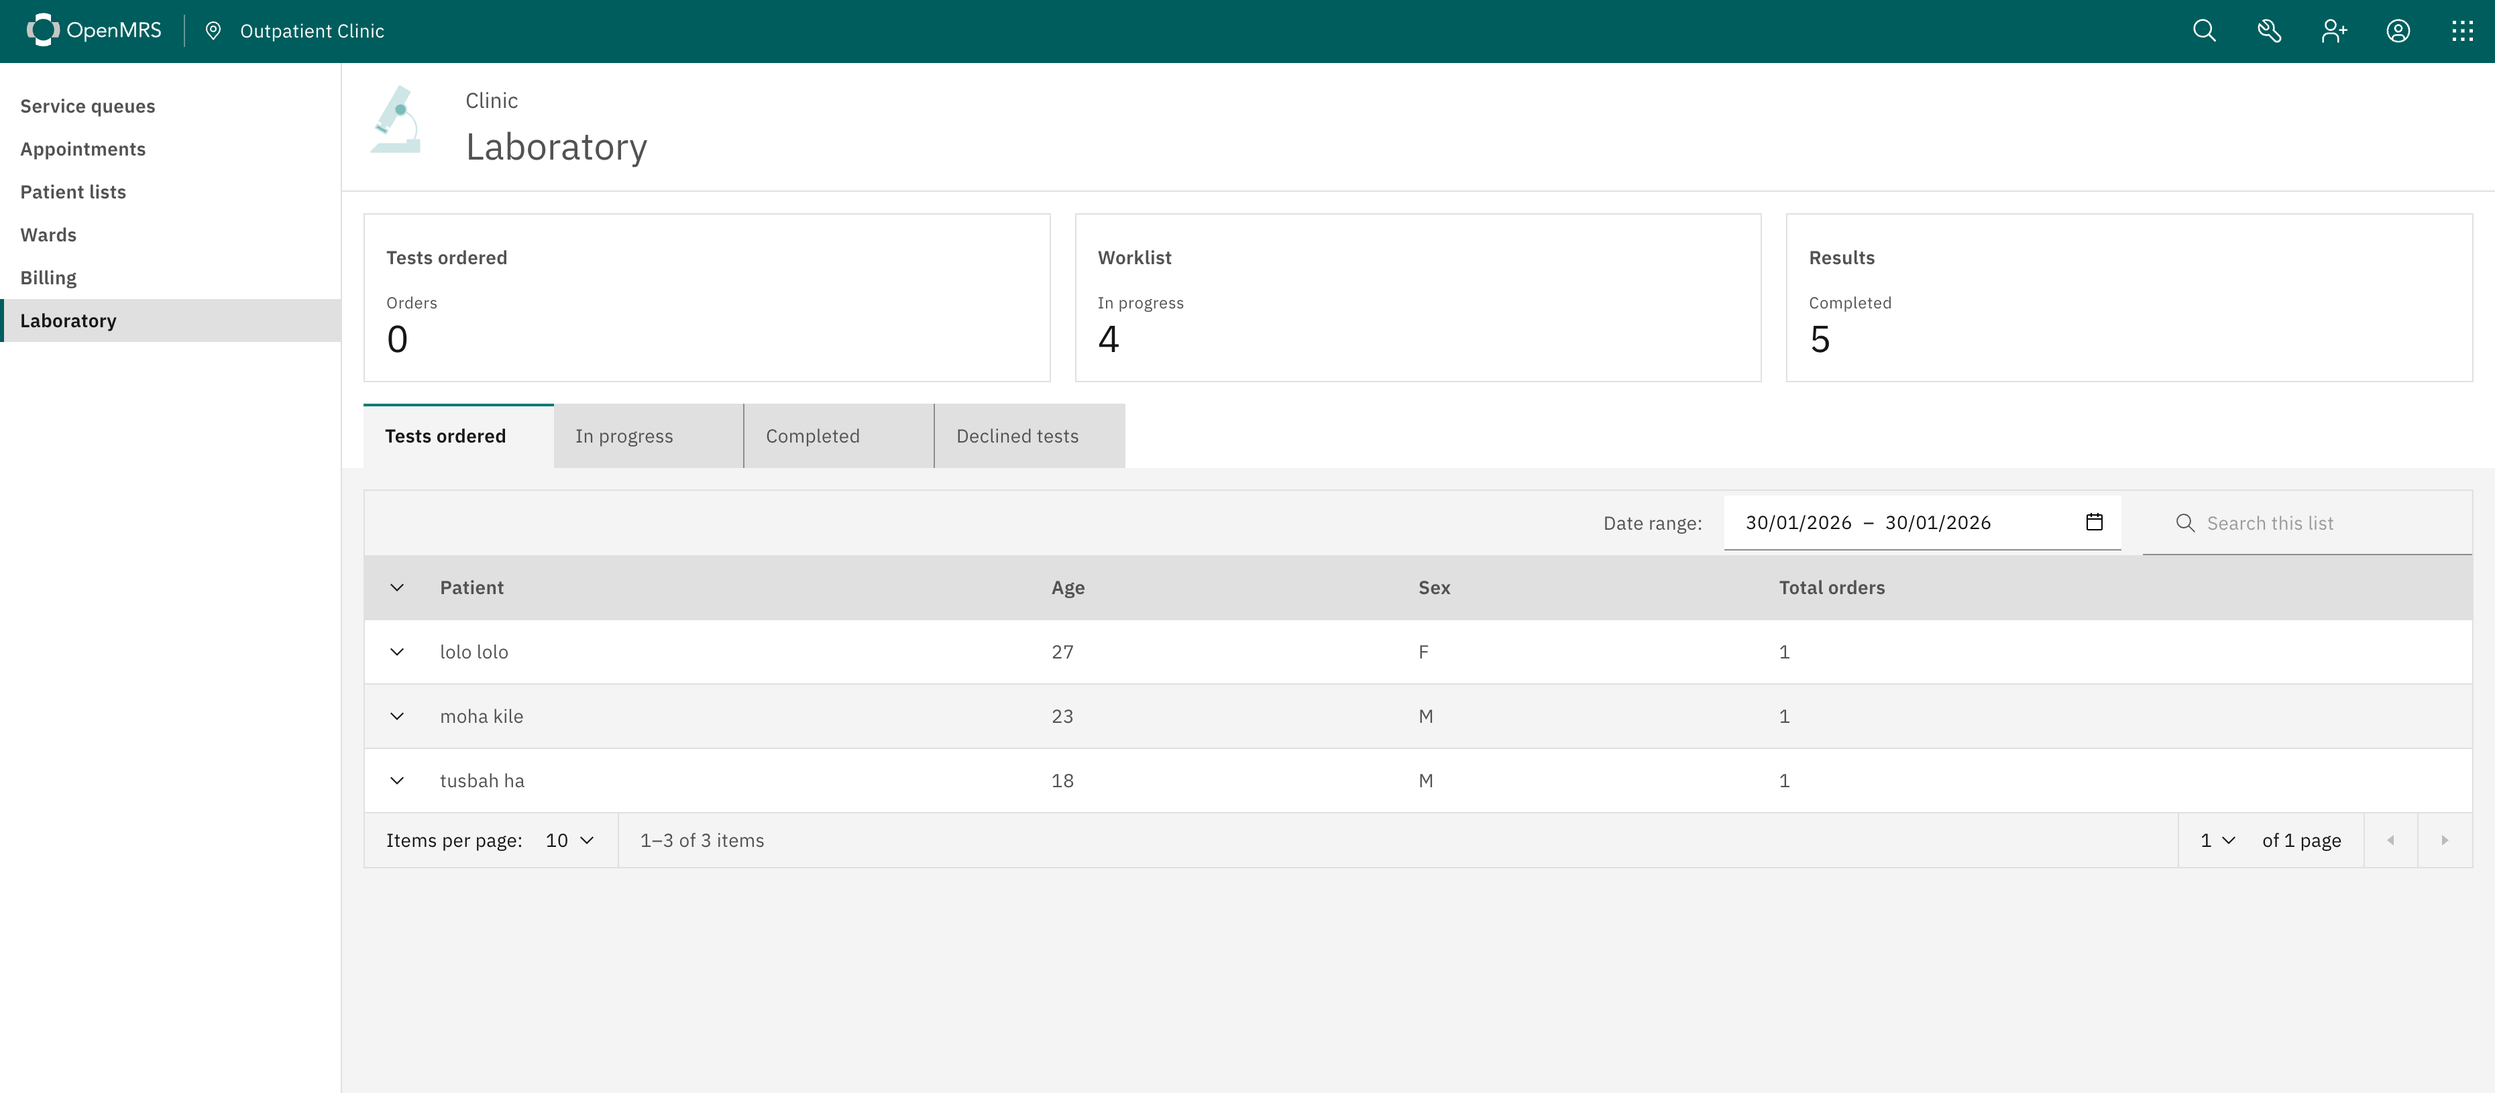
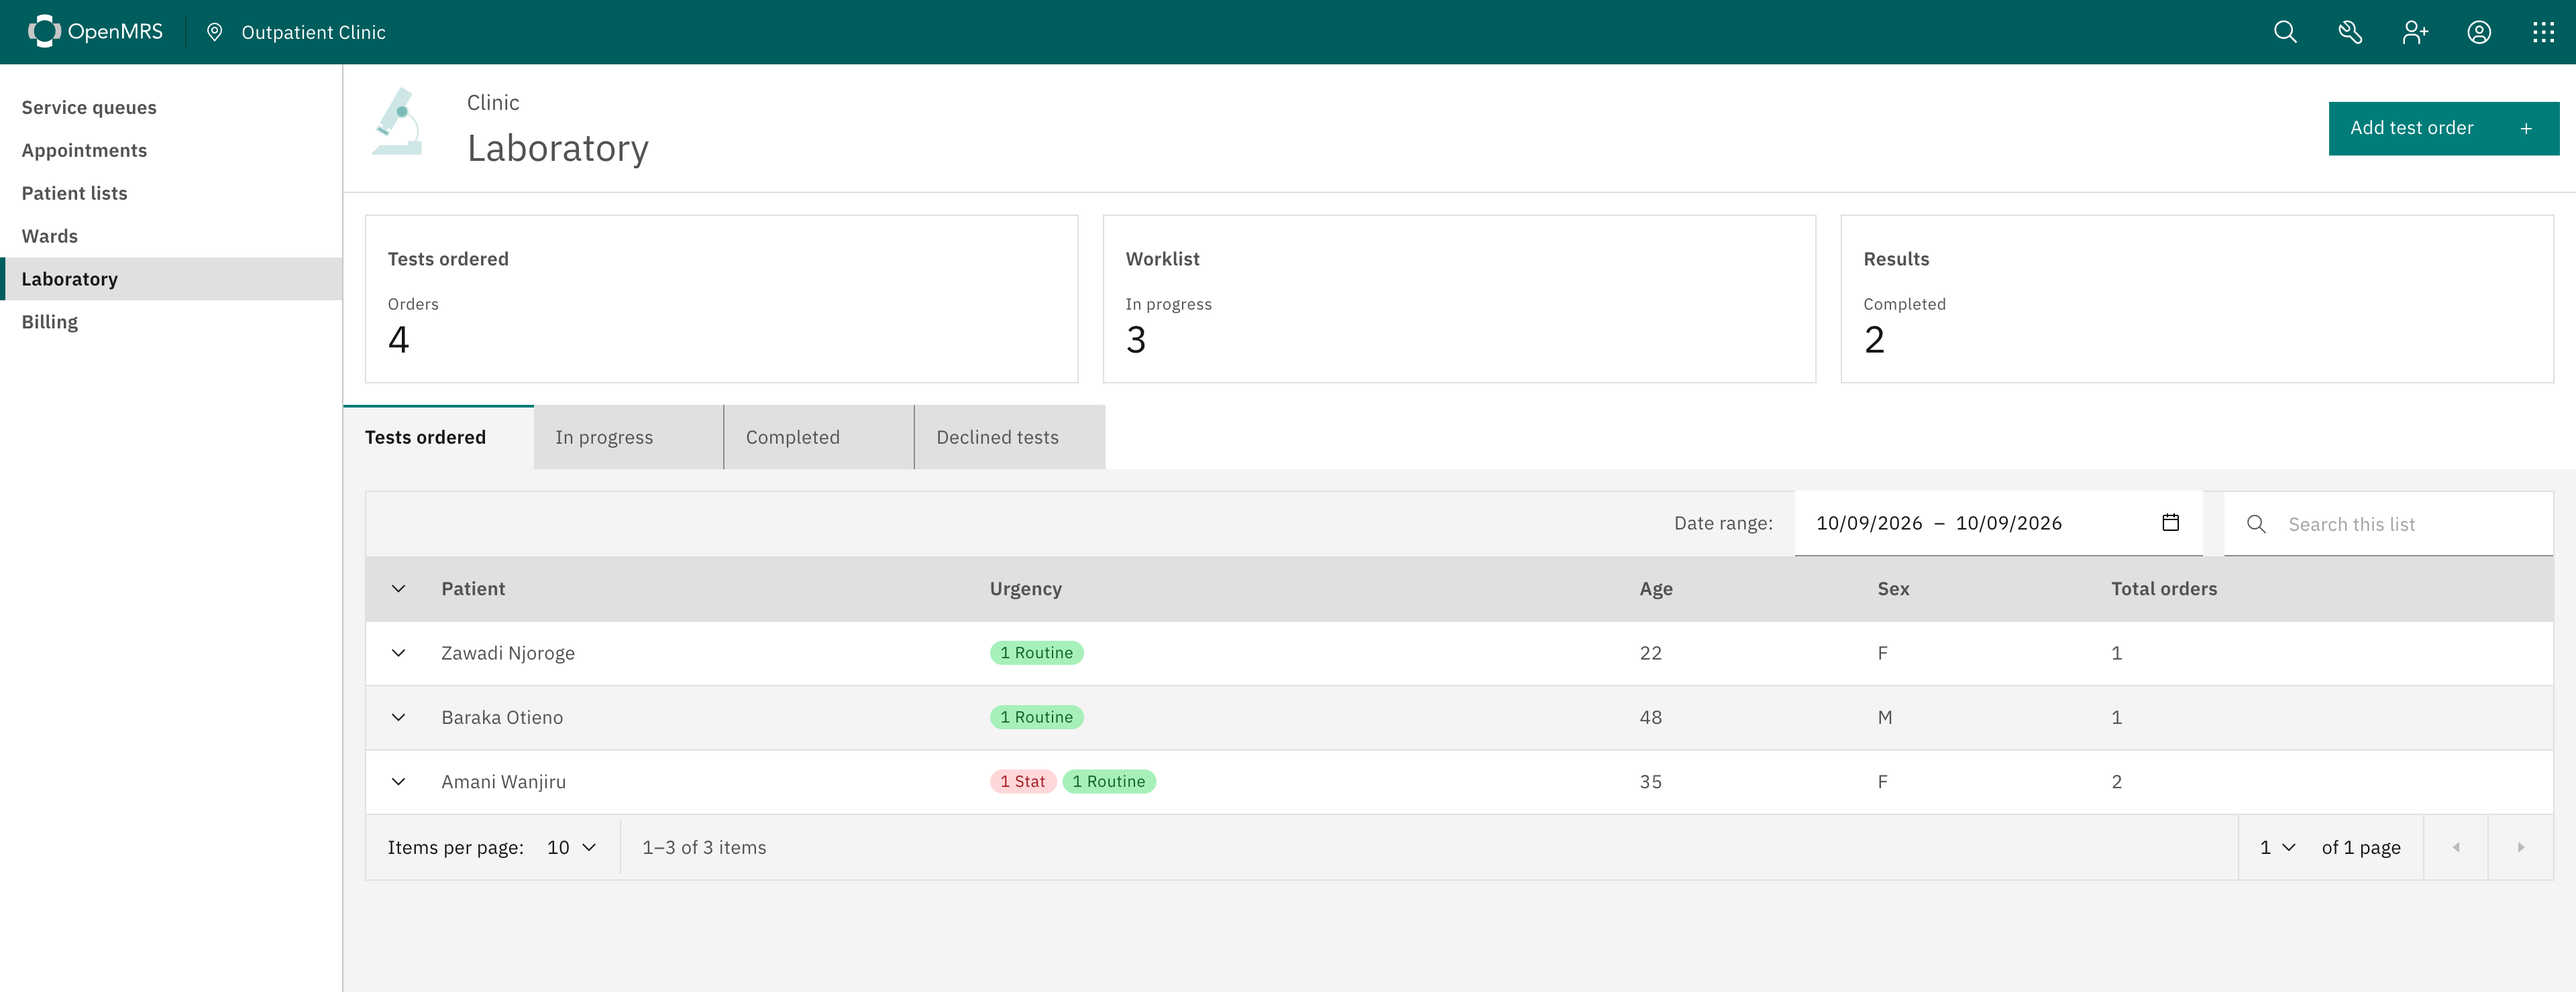
(docs) Update the README to cover the current app (#833)
Rewrite the README so it matches what the app does today. The config
table was out of date: labTableColumns was missing urgency from its
default and allowed values, and usePreferredPatientIdentifier wasn't
documented at all. The customization section told implementers to edit
routes.json, which isn't how slots are configured, so it now points at
the extensionSlots config and lists every slot this module renders.

Also adds sections that were missing entirely: which fulfiller status
each tab shows, what each action does, the frontend modules this app
borrows workspaces and modals from, the backend requirement, the dev3
default for yarn start, the remaining scripts, e2e setup, translations,
and the PR title convention.

The two screenshots were taken before the Add test order button and the
urgency column existed. Both are retaken against dev3 at 2x with the
module's default columns.

All o3-docs links in both READMEs pointed at paths that now 404 because
the site moved under /en-US/. They're updated to the live URLs.

diff --git a/README.md b/README.md
@@ -1,6 +1,6 @@
 # openmrs-esm-laboratory-app
 
-An O3 frontend module for managing laboratory requests and queues.
+An O3 frontend module for managing laboratory requests and queues. It adds a **Laboratory** dashboard to the home page where lab staff can see incoming test orders, pick them up, record results, reject requests, and (optionally) review results before they are finalised.
 
 For more information, please refer to the [O3 Frontend Documentation](https://o3-docs.openmrs.org/).
 
@@ -8,15 +8,29 @@ For more information, please refer to the [O3 Frontend Documentation](https://o3
 
 ![Laboratory dashboard](assets/screenshots/labs_general_dashboard.png)
 
-## Adding results
+The dashboard lives at `/openmrs/spa/home/laboratory` and has three parts:
 
-Lab technicians can enter test results by expanding an in-progress order and clicking "Add lab results". This opens a workspace where results can be recorded for each test.
+- **Summary tiles** showing counts of ordered tests, tests in progress (the worklist), and completed tests. A **Pending review** tile is added when `enableReviewingLabResultsBeforeApproval` is on.
+- **Tab panels**, one per stage of the lab workflow. Each panel lists orders grouped by patient; expanding a row shows the individual orders and the actions available for them.
+- A **date range filter** and search box on each panel. The date range defaults to today and is shared across all panels.
+
+| Tab | Shows orders whose fulfiller status is |
+| --- | --- |
+| Tests ordered | Not yet set (new orders that nobody has picked up) |
+| In progress | `IN_PROGRESS` |
+| Pending review | `DRAFT` (only shown when `enableReviewingLabResultsBeforeApproval` is on) |
+| Completed | `COMPLETED` |
+| Declined tests | `DECLINED` |
+
+## Lab workflow
+
+- **Add test order.** The button in the page header opens a patient search. Picking a patient with an active visit opens the order basket, restricted to the configured lab order type. Patients without an active visit are prompted to start one first.
+- **Pick lab request.** From the *Tests ordered* tab. Moves the order to `IN_PROGRESS` and onto the worklist.
+- **Add lab results.** From the *In progress* tab. Opens the test results workspace where a result can be recorded for each test in the order. More tests can be added to the order from the same workspace.
+- **Reject lab request.** From the *Tests ordered* or *In progress* tabs. Asks for a fulfiller comment and moves the order to `DECLINED`. The comment is shown as the reason for decline in the *Declined tests* tab.
+- **Approve / Amend lab results.** From the *Pending review* tab, when the review step is enabled. Approving moves the order to `COMPLETED` and makes the results available to clinicians. Amending reopens the results form.
 
 ![Adding lab results](assets/screenshots/labs_enter_results.png)
-
-## Customizing tab panels and summary tiles
-
-Implementers can add or remove laboratory tab panels and summary tiles via extension configuration in the [routes.json](https://github.com/openmrs/openmrs-esm-laboratory-app/blob/main/src/routes.json) file.
 
 ## Configuration
 
@@ -24,10 +38,60 @@ The module supports the following configuration options:
 
 | Property | Type | Default | Description |
 | --- | --- | --- | --- |
-| `laboratoryOrderTypeUuid` | `string` | `52a447d3-a64a-11e3-9aeb-50e549534c5e` | UUID for the laboratory order type |
-| `labTableColumns` | `Array<string>` | `['name', 'age', 'sex', 'totalOrders', 'action']` | Columns to display in the lab table. Allowed values: `name`, `age`, `dob`, `sex`, `totalOrders`, `action`, `patientId` |
-| `patientIdIdentifierTypeUuid` | `UUID` | `05a29f94-c0ed-11e2-94be-8c13b969e334` | Identifier type UUID for the patient ID column. Only needed if `patientId` is included in `labTableColumns` |
-| `enableReviewingLabResultsBeforeApproval` | `boolean` | `false` | When enabled, lab results are submitted for review before being approved and finalized |
+| `laboratoryOrderTypeUuid` | `string` | `52a447d3-a64a-11e3-9aeb-50e549534c5e` | UUID of the order type treated as a lab order. Used to fetch orders and to filter the order basket when adding a test order |
+| `labTableColumns` | `Array<string>` | `['name', 'urgency', 'age', 'sex', 'totalOrders', 'action']` | Columns to display in the lab table, in order. Allowed values: `name`, `urgency`, `age`, `dob`, `sex`, `totalOrders`, `action`, `patientId` |
+| `patientIdIdentifierTypeUuid` | `UUID` | `05a29f94-c0ed-11e2-94be-8c13b969e334` (OpenMRS ID) | Identifier type shown in the `patientId` column. Only needed if `patientId` is included in `labTableColumns` |
+| `usePreferredPatientIdentifier` | `boolean` | `true` | When `true`, the `patientId` column only shows an identifier that is both preferred and of the configured type. When `false`, any identifier of the configured type is shown, falling back to the patient's preferred identifier of any type |
+| `enableReviewingLabResultsBeforeApproval` | `boolean` | `false` | Adds a review step. Shows the *Pending review* tab and tile and the approve/amend actions, so results are held for review before being finalised |
+
+Example:
+
+```json
+{
+  "@openmrs/esm-laboratory-app": {
+    "labTableColumns": ["name", "patientId", "urgency", "age", "sex", "totalOrders", "action"],
+    "enableReviewingLabResultsBeforeApproval": true
+  }
+}
+```
+
+## Customizing tab panels, summary tiles and actions
+
+Panels, tiles and the action buttons are all extensions, so implementers can add, remove or reorder them with the standard [`extensionSlots` configuration](https://o3-docs.openmrs.org/en-US/docs/extension-system/#extension-configurability) without changing this module. The slots this module renders are:
+
+| Slot | What goes in it |
+| --- | --- |
+| `lab-tiles-slot` | Summary tiles at the top of the dashboard |
+| `lab-panels-slot` | Tab panels. Extensions must declare `meta.name` and `meta.title` (the tab label) to be shown |
+| `tests-ordered-actions-slot`, `rejected-ordered-actions-slot` | Actions for new orders (pick up, reject) |
+| `inprogress-tests-actions-slot` | Actions for in-progress orders (add results, reject) |
+| `approved-ordered-actions-slot`, `amended-ordered-actions-slot` | Actions for orders pending review (approve, amend) |
+| `completed-lab-order-results-slot` | Rendering of recorded results for completed orders and in the approval modal |
+
+The extensions this module attaches to those slots, and their `order`, are listed in [routes.json](src/routes.json). For example, to hide the *Declined tests* tab:
+
+```json
+{
+  "@openmrs/esm-laboratory-app": {
+    "extensionSlots": {
+      "lab-panels-slot": {
+        "remove": ["declined-tile-component"]
+      }
+    }
+  }
+}
+```
+
+## Dependencies
+
+This module reuses workspaces and modals from other O3 frontend modules, which must be present in the distribution:
+
+- `@openmrs/esm-patient-orders-app` for the test results form and the order basket
+- `@openmrs/esm-patient-tests-app` for adding lab orders and for the modal used to amend results
+- `@openmrs/esm-patient-search-app` for the patient search when adding a test order
+- `@openmrs/esm-patient-chart-app` for the start visit form
+
+On the backend it needs the REST web services module (`webservices.rest` 2.2.0 or newer). Orders are read from the `order` resource and status changes go through the `order/{uuid}/fulfillerdetails` sub-resource.
 
 ## Getting Started
 
@@ -43,12 +107,44 @@ yarn start
 
 # Or start on a specified port, e.g. 5000
 yarn start --port 5000
+
+# Or proxy to a different backend (the default is https://dev3.openmrs.org/)
+yarn start --backend http://localhost:8080/
 ```
 
 Once it is running, a browser window should open with O3 running. Log in and then navigate to `/openmrs/spa/home/laboratory`.
 
+Other useful scripts:
+
+```sh
+yarn verify              # lint, type-check and unit tests, as run in CI
+yarn lint
+yarn typescript
+yarn build               # production build into dist/
+yarn extract-translations
+```
+
 ## Running tests
+
+Unit tests use [Vitest](https://vitest.dev/):
 
 ```sh
 yarn test
+yarn test:watch
 ```
+
+End-to-end tests use [Playwright](https://playwright.dev/). Copy `example.env` to `.env`, start the dev server, then run:
+
+```sh
+yarn test-e2e --headed
+```
+
+See the [E2E README](e2e/README.md) for details on the test structure, configuration and CI setup.
+
+## Translations
+
+Translations are managed in [Transifex](https://app.transifex.com/openmrs/openmrs3/). Only `translations/en.json` should be edited in this repository, and it is regenerated from the source code with `yarn extract-translations`. Other locales are pulled from Transifex automatically.
+
+## Contributing
+
+Pull requests are welcome. PR titles must follow the [OpenMRS conventional commit format](https://o3-docs.openmrs.org/en-US/docs/frontend-modules/contributing/#pull-requests), for example `(fix) O3-1234: Short description`. Before opening a PR, run `yarn verify` locally. See the [O3 contributing guide](https://o3-docs.openmrs.org/en-US/docs/frontend-modules/contributing/) for more.

diff --git a/e2e/README.md b/e2e/README.md
@@ -35,7 +35,7 @@ To run a specific test by title:
 yarn test-e2e --headed -g "title of the test"
 ```
 
-Read the [e2e testing guide](https://o3-docs.openmrs.org/docs/frontend-modules/end-to-end-testing) to learn more about End-to-End tests in this project.
+Read the [e2e testing guide](https://o3-docs.openmrs.org/en-US/docs/frontend-modules/end-to-end-testing/) to learn more about End-to-End tests in this project.
 
 ### Updating Playwright
 
